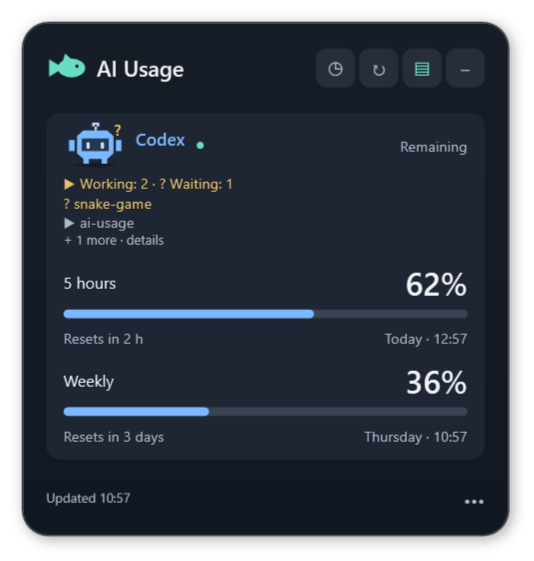
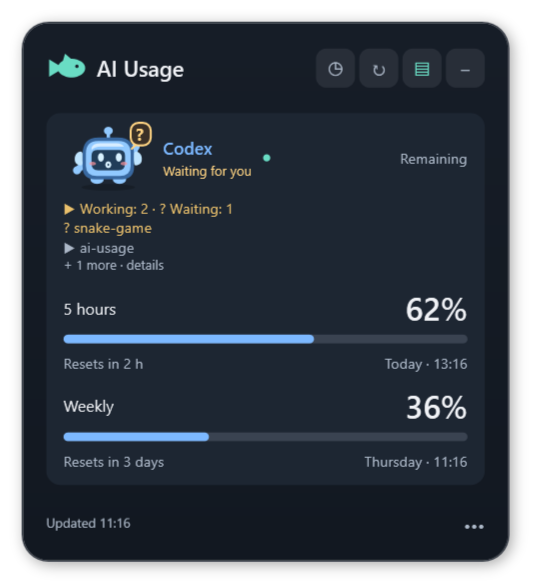
docs: refresh companion screenshots and smooth the demo animation

diff --git a/README.md b/README.md
@@ -24,7 +24,9 @@ English is the default; Polish is available in Options. [Prefer still images?](#
 - **Your choice of providers.** Detect installed clients, then show or hide any
   provider from the widget or tray menu. Changes apply without restarting.
 - **Sessions that need you.** Codex and Claude show active projects, work in progress
-  and requests waiting for input, with animated mascots.
+  and requests waiting for input. Codex and Claude have expressive companions:
+  typing while working, waving when they need you, and breathing softly at rest.
+  A text label explains each state; character animations can be switched off in Options.
 - **History behind the numbers.** Explore quota history, projects, sessions and model
   token totals. Local token estimates remain separate from subscription percentages.
 - **A widget that stays out of the way.** Switch between compact and full views,

diff --git a/docs/MEDIA.md b/docs/MEDIA.md
@@ -29,7 +29,7 @@ FFmpeg is needed only to encode this documentation GIF, not to use the widget.
 
 | Asset | Contents |
 |---|---|
-| `demo.gif` | 66 frames at 6 fps: two providers, hiding Claude through its real menu handler, then opening Codex quota history. The native mascots animate between frames. |
+| `demo.gif` | 132 frames at 12 fps: two providers, hiding Claude through its real menu handler, then opening Codex quota history. The native mascots animate between frames. |
 | `overview.png` | Static first frame of the demo, including its sample-data label. |
 | `widget.png` | Compact Codex/Claude widget with sample activity. |
 | `one-provider.png` | Widget after hiding Claude. |
